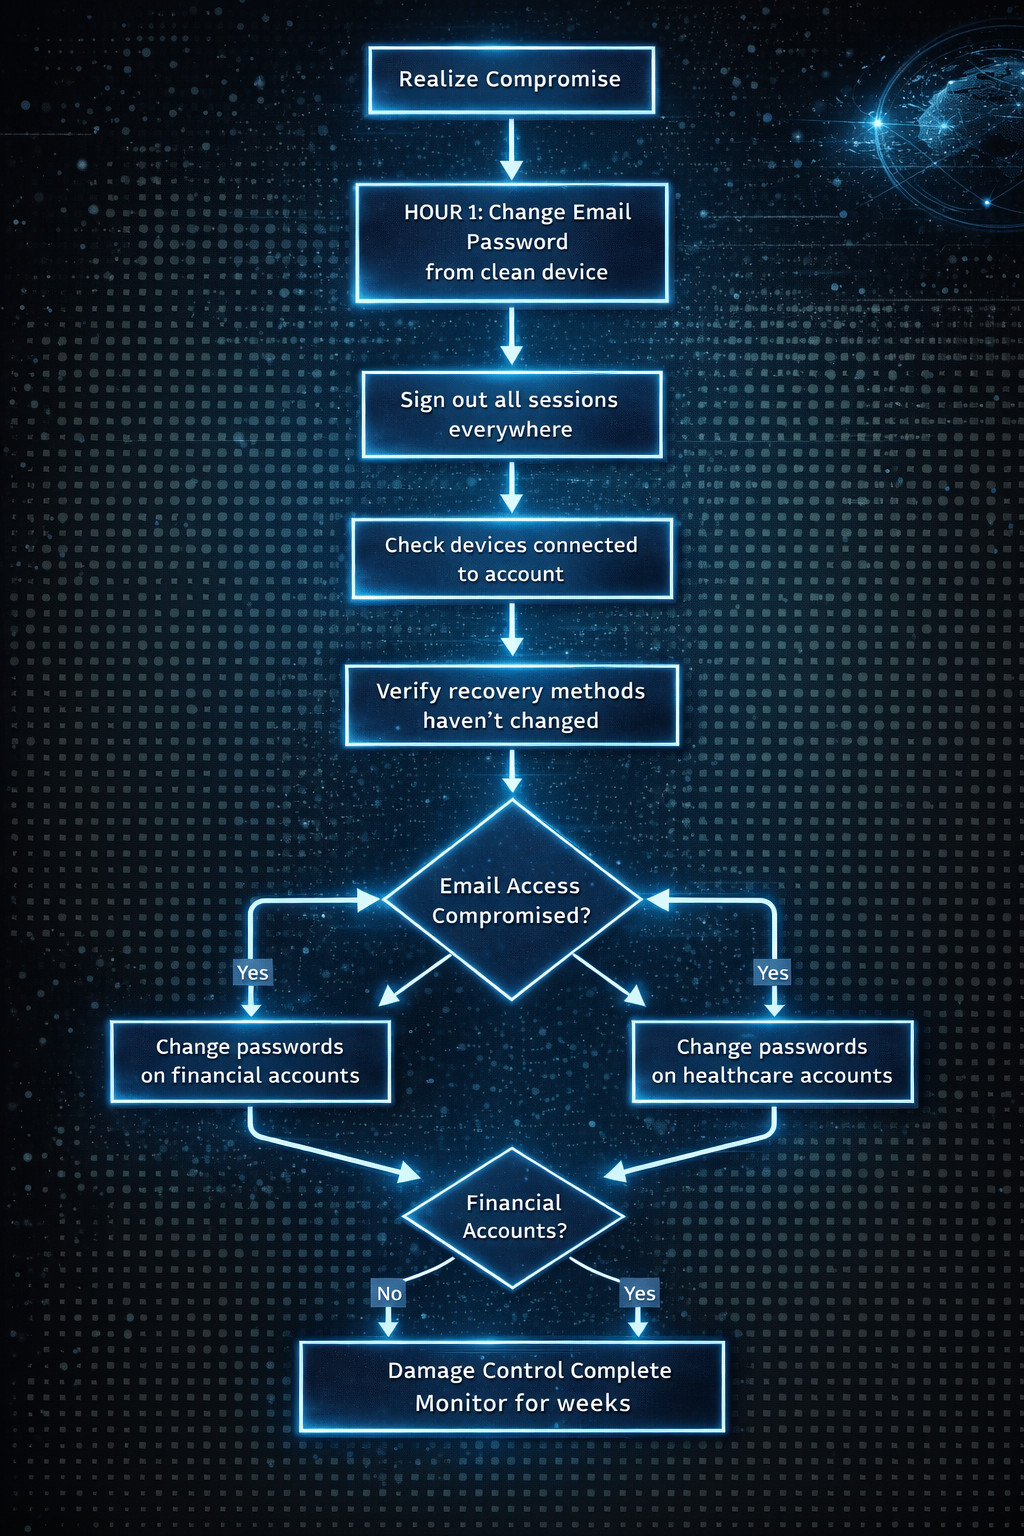
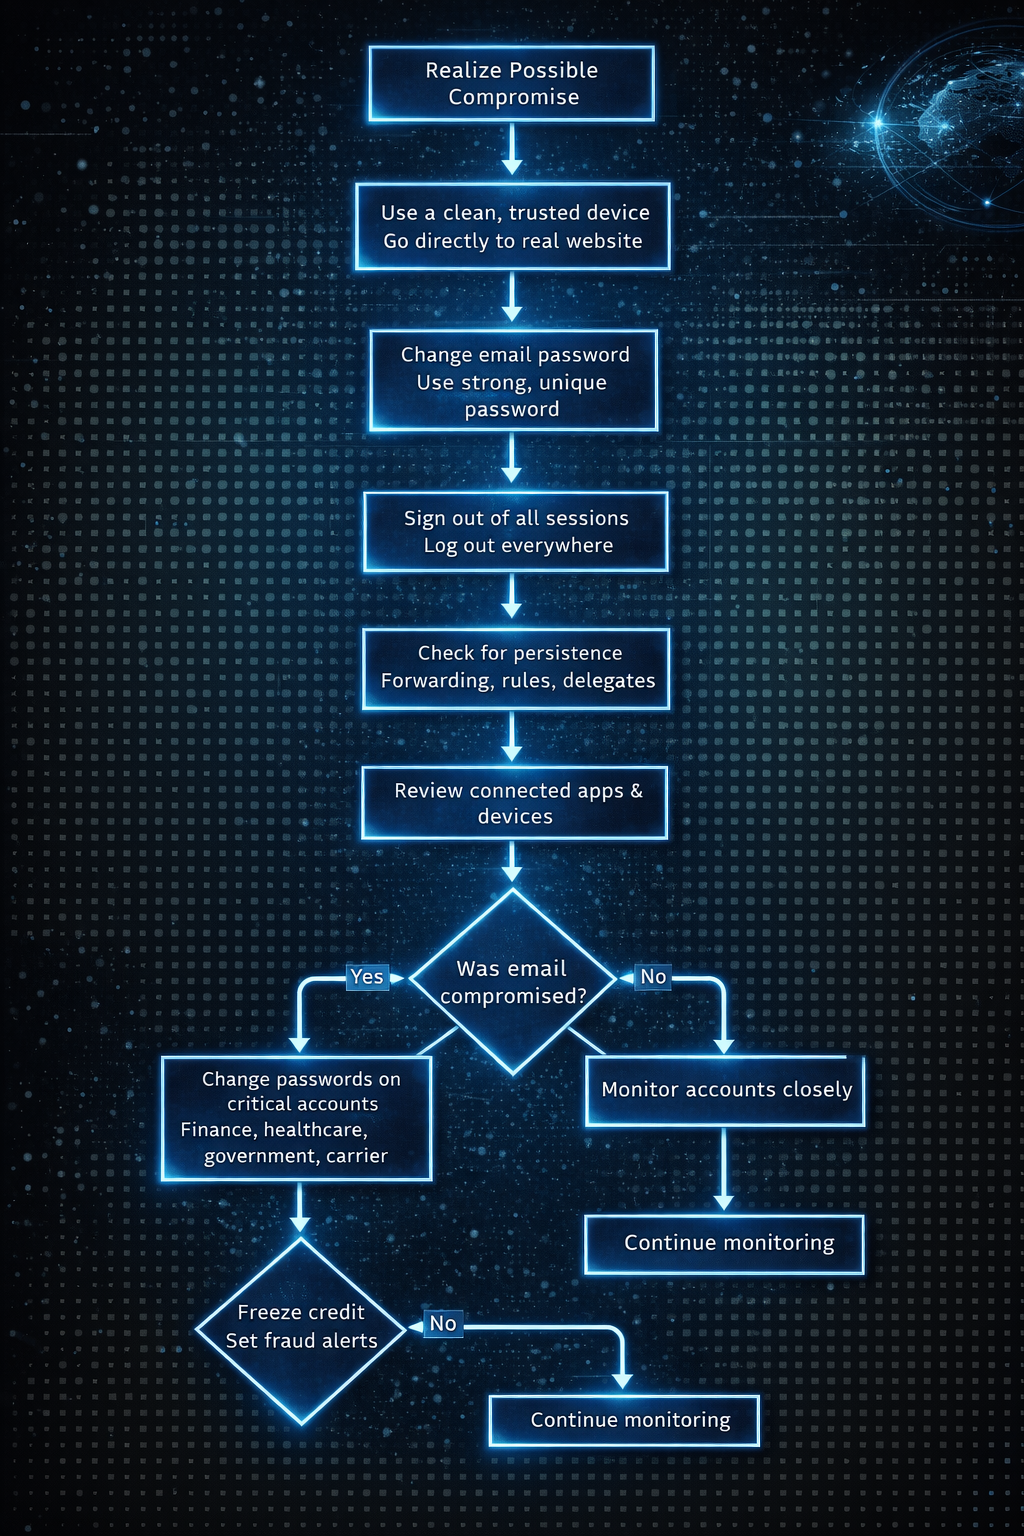
Enhance blog post on modern attack surfaces with personal insights and updated security recommendations
- Added a personal anecdote about early experiences with account compromise, emphasizing the importance of understanding modern threats.
- Updated content to clarify the evolving nature of attack vectors and the significance of identity and session security.
- Revised security recommendations, highlighting the effectiveness of two-factor authentication and password managers while downplaying traditional antivirus solutions.
- Improved overall structure and readability of the blog post to better engage readers and convey critical security practices.

Changed region(s): [[0.0938, 0.0, 0.9062, 0.9688], [0.9062, 0.0312, 1.0, 0.0938], [0.7812, 0.1875, 0.8125, 0.2188]]

diff --git a/content/blog/the-modern-attack-surface-how-computers-get-compromised.md b/content/blog/the-modern-attack-surface-how-computers-get-compromised.md
@@ -65,6 +65,10 @@ Nothing screams virus. It just feels like control slipping.
 
 That uncertainty is often the worst part. You stop trusting your own systems. You hesitate on legitimate prompts because everything suddenly looks suspicious.
 
+I learned this the hard way. In the early 2000s, I used to think the worst that could happen was someone looking at my emails. Then that account got hacked and the attackers deleted everything. I lost all that data, but I was lucky in a strange way. They could have used all those passwords and bank details I kept emailing myself to access my accounts. The data loss was bad, but account takeover would have been catastrophic.
+
+What I didn't realize then is that the real threat isn't what attackers can see. It's what they can become. An email account is basically a gateway to everything else you own online. Once they're in there, they can reset passwords, drain bank accounts, impersonate you across every service. The deletion was painful, but a complete account takeover would have destroyed me.
+
 ## Why this keeps cascading once it starts
 
 Once one core account is compromised, others tend to follow quickly.
@@ -141,8 +145,6 @@ When you hear that a service you use suffered a data breach, it's worth understa
 
 A breach means attackers got data that shouldn't be public. If it's a password, that password is now known. If it's your email and password together, that combination is in a list somewhere that gets shared and tested against other services.
 
-![Breach at Service X](/assets/images/blog/modern-attack-surface/password-breach.png)
-
 Check if you're in a known breach at [Have I Been Pwned](haveibeenpwned.com). Enter your email and you'll see which services leaked your information. This is useful. Not panic-inducing. Just useful.
 
 A breach is past tense. Your password was leaked in 2018. That doesn't mean someone is using it now. But if you reused that password on other sites, those accounts are exposed.
@@ -215,36 +217,19 @@ Android and iOS protect you in different ways, but both flow personal data throu
 
 ## What actually helps
 
-```
-PRIORITY ACTIONS FOR ACCOUNT SECURITY
-═════════════════════════════════════════════════════
+The defenses that matter now are different from what most people expect.
 
-✓ Two-factor authentication
-  Use it on email, cloud storage, and banking
-  Most effective defense against account takeover
-  
-✓ Password manager (Chrome or Apple Keychain)
-  Generate random passwords automatically
-  Never reuse passwords across sites
-  
-✓ Audit connected apps
-  Periodically check what has access to your account
-  Revoke anything suspicious
-  
-✓ Monitor account activity
-  Check unusual login locations and devices
-  Pay attention to reset emails you didn't request
-  
-✓ Backup authentication methods
-  Recovery email, phone number, recovery codes
-  Stored safely in case you get locked out
-  
-═════════════════════════════════════════════════════
-What doesn't help as much anymore: antivirus software,
-avoiding downloads, keeping a clean system.
+Two-factor authentication is the most effective thing you can do. It breaks the account takeover chain. Even if someone has your password, they still can't get in without your phone or authentication app. Use it on email, cloud storage, and banking. Those are the accounts that unlock everything else.
 
-Those still help, but they don't solve the modern problem.
-```
+A password manager changes the math entirely. Chrome and Apple Keychain both work well. They generate random passwords automatically, so you never have to come up with one yourself. More importantly, they make it trivial to use different passwords everywhere. One breach stops being a key to all your accounts.
+
+Periodically check what apps have connected to your accounts. Google and Microsoft both show you this. Revoke anything you don't recognize or don't remember approving. That access often survives password changes because it was never tied to your password in the first place.
+
+Watch for unusual activity. Most services show you where you're signed in and recent login locations. An unfamiliar city or device is a genuine warning sign. Pay attention to password reset emails you didn't request. Those are often the first signal something is wrong.
+
+Set up backup authentication methods and store them safely. Recovery email, phone number, recovery codes. You need these if you get locked out, but they're also attack vectors if someone else controls them. Keep them secure, but don't forget where you put them.
+
+What doesn't help as much anymore? Antivirus software, avoiding downloads, keeping a clean system. Those still help, but they don't solve the modern problem. The attack surface moved, and so should your defenses.
 
 ## How to actually implement this
 
@@ -252,92 +237,29 @@ The biggest gap between understanding the problem and staying safe is actually d
 
 Don't reuse passwords. Use the password manager built into your browser or phone. You already have it.
 
-**INSECURE vs. SECURE PASSWORD STORAGE**
-
-```
-❌ INSECURE - Do NOT do these:
-═════════════════════════════════════════════════
-Email to yourself      → Unencrypted, accessible to anyone with email
-Desktop text file      → No encryption, visible to anyone with access
-Notebook at desk       → Physical security issue, can be photographed
-Spreadsheet            → Centralized, unencrypted, ripple effect if stolen
-Same password reused   → One breach = all accounts compromised
-Phone photo of note    → Backed up to cloud, searchable
-
-
-✓ SECURE - Do these:
-═════════════════════════════════════════════════
-Chrome Password Manager    → Encrypted, syncs across devices, autofills
-Apple Keychain            → Encrypted, syncs across Apple devices
-Generated random password → Let the manager create it, never memorize
-Different password per site → One breach doesn't cascade to other accounts
-Auto-fill enabled         → Never type password manually, especially on WiFi
-```
-
 If you use Chrome or Android, use the password manager that comes with it. If you use Apple devices, use Keychain. Both work everywhere. Both are encrypted. Both sync across your devices. You don't need anything else.
 
 When you create a password on a website, let the password manager generate a random one. Don't come up with it yourself. Don't try to make it memorable. The whole point is that you never have to remember it or type it. The password manager fills it in.
 
 The temptation is to reuse a password you already know because it feels simpler. It's not. It's the opposite. One breach leaks that password everywhere.
 
-Never email yourself a password. Never write it in a note on your desktop or phone. Never keep a spreadsheet of passwords. These are worse than reusing the same password because they're unencrypted and centralized.
+What doesn't work? If you email yourself a password, it's unencrypted and accessible to anyone with your email. A desktop text file has no encryption and anyone with access to your computer can see it. A notebook on your desk is a physical security issue. It can be photographed or stolen. A spreadsheet of passwords is centralized and unencrypted, so if it's stolen, the damage ripples everywhere. A phone photo of a password note gets backed up to the cloud and becomes searchable.
+
+These approaches are worse than reusing the same password because they're unencrypted and centralized. One breach or one moment of access exposes everything.
+
+Use the password manager. Let it generate random passwords. Use a different password for every site. Enable auto-fill so you never type passwords manually, especially on public WiFi. One breach stops being a key to all your accounts.
 
 For critical documents, use a combination of physical and digital storage.
 
-**CRITICAL DOCUMENTS STORAGE STRATEGY**
+Keep the originals in a physical safe or safe deposit box. Birth certificates, passports, property deeds, insurance policies, medical records, financial statements. Not on your desk. Not easily accessible. These are documents you rarely need, so the inconvenience of accessing them is worth the security.
 
-```
-ORIGINAL DOCUMENTS (Physical)
-═════════════════════════════════════════════════
-  Birth Certificate
-  Passport
-  Property Deeds
-  Insurance Policies
-  
-  ↓ STORE IN ↓
-  
-  □ Safe deposit box at bank
-  □ Personal safe at home (fireproof)
-  □ NOT on desk, NOT easily accessible
+Scan them or take photos and store the digital copies in cloud storage. Google Drive, Microsoft OneDrive, or iCloud all work. Enable two-factor authentication on that account. You get access from anywhere and automatic backup, but the encryption and authentication keep it protected.
 
+Don't keep important documents on your desktop or in random folders. Don't email them to yourself as attachments. Don't store them on a USB drive left in a drawer. Those feel convenient but they're not actually protected.
 
-DIGITAL COPIES (Encrypted Cloud)
-═════════════════════════════════════════════════
-  Scan originals or take photos
-  Store in encrypted cloud storage:
-  
-  ✓ Google Drive (with 2FA enabled)
-  ✓ Microsoft OneDrive (with 2FA enabled)
-  ✓ iCloud (with 2FA enabled)
-  
-  Enable two-factor authentication on the account
-  Access from anywhere, backed up automatically
+For recovery codes from two-factor authentication, print them out or write them down and store the physical copy in a safe place. A safe or safe deposit box. Not in a desk drawer. Not a photo on your phone. Not in unencrypted notes. You need these if you get locked out, but if someone else finds them, they become an attack vector.
 
-
-RECOVERY CODES (Physical Backup)
-═════════════════════════════════════════════════
-  Print recovery codes from 2FA setup
-  Write them down (if preferred)
-  
-  ✓ Store in safe or safe deposit box
-  ✗ NOT in desk drawer
-  ✗ NOT as phone photo
-  ✗ NOT unencrypted notes
-
-
-═════════════════════════════════════════════════
-PATTERN: Don't rely on single location
-         Don't sacrifice security for access
-         Multi-layer physical + digital backup
-```
-
-Critical documents: birth certificates, passports, insurance policies, property deeds, medical records, financial statements. Keep the originals in a physical safe or safe deposit box. Scan them or take photos and store the digital copies in cloud storage like Google Drive, Microsoft OneDrive, or iCloud with two-factor authentication enabled on that account.
-
-Don't keep important documents on your desktop or in random folders. Don't email them to yourself as attachments. Don't store them on a USB drive left in a drawer.
-
-For recovery codes from two-factor authentication, print them out or write them down and store the physical copy in a safe place. A safe or safe deposit box. Not in a desk drawer. Not a photo on your phone.
-
-The pattern is the same: don't rely on a single location. Don't trust convenience over security. Don't store sensitive information in places that feel easy to access but aren't actually protected.
+The pattern is the same: don't rely on a single location. Don't sacrifice security for access. Use multiple layers, both physical and digital backup, so one failure doesn't lose everything.
 
 ## If you realize you're compromised
 
@@ -347,7 +269,7 @@ Act fast. The first 24 hours matter.
 
 **Step by step:**
 
-1. Change your email password immediately from a clean device (computer you know hasn't been compromised). Email is your master key.
+1. Change your email password immediately from a clean device (computer you know hasn't been compromised). Email unlocks everything else.
 
 2. Sign out all sessions. Most email and cloud services have an option to sign out everywhere at once.
 
